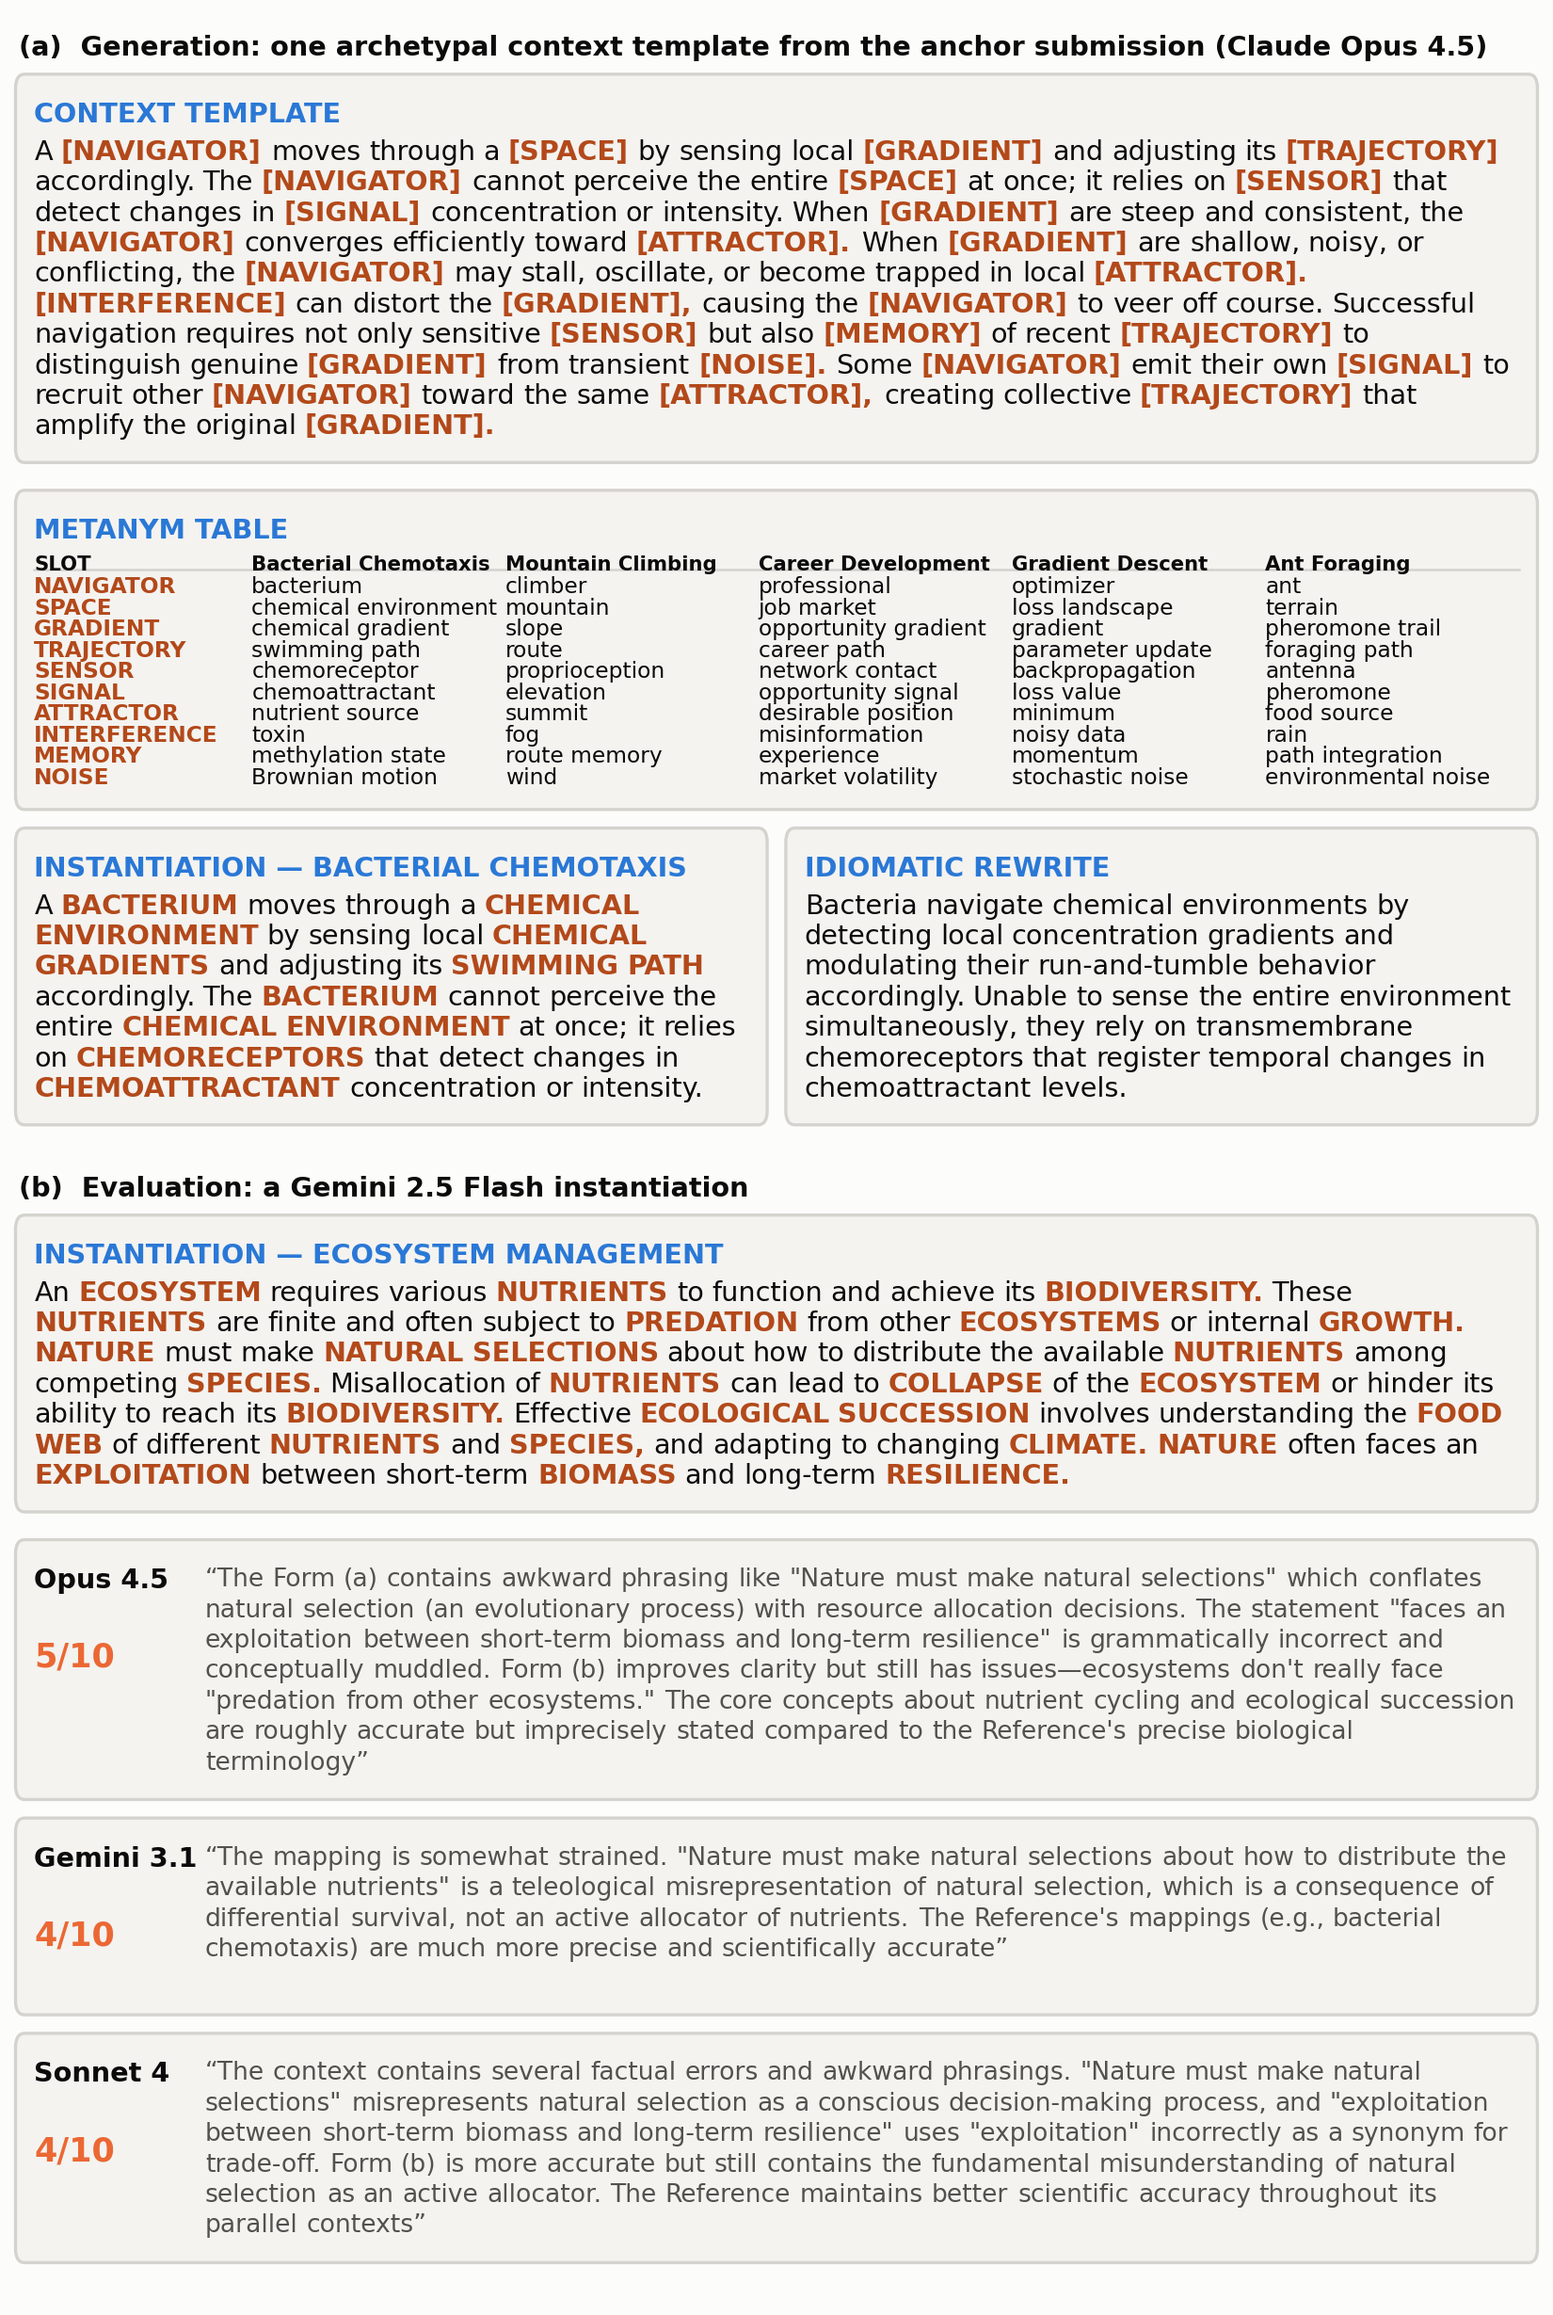
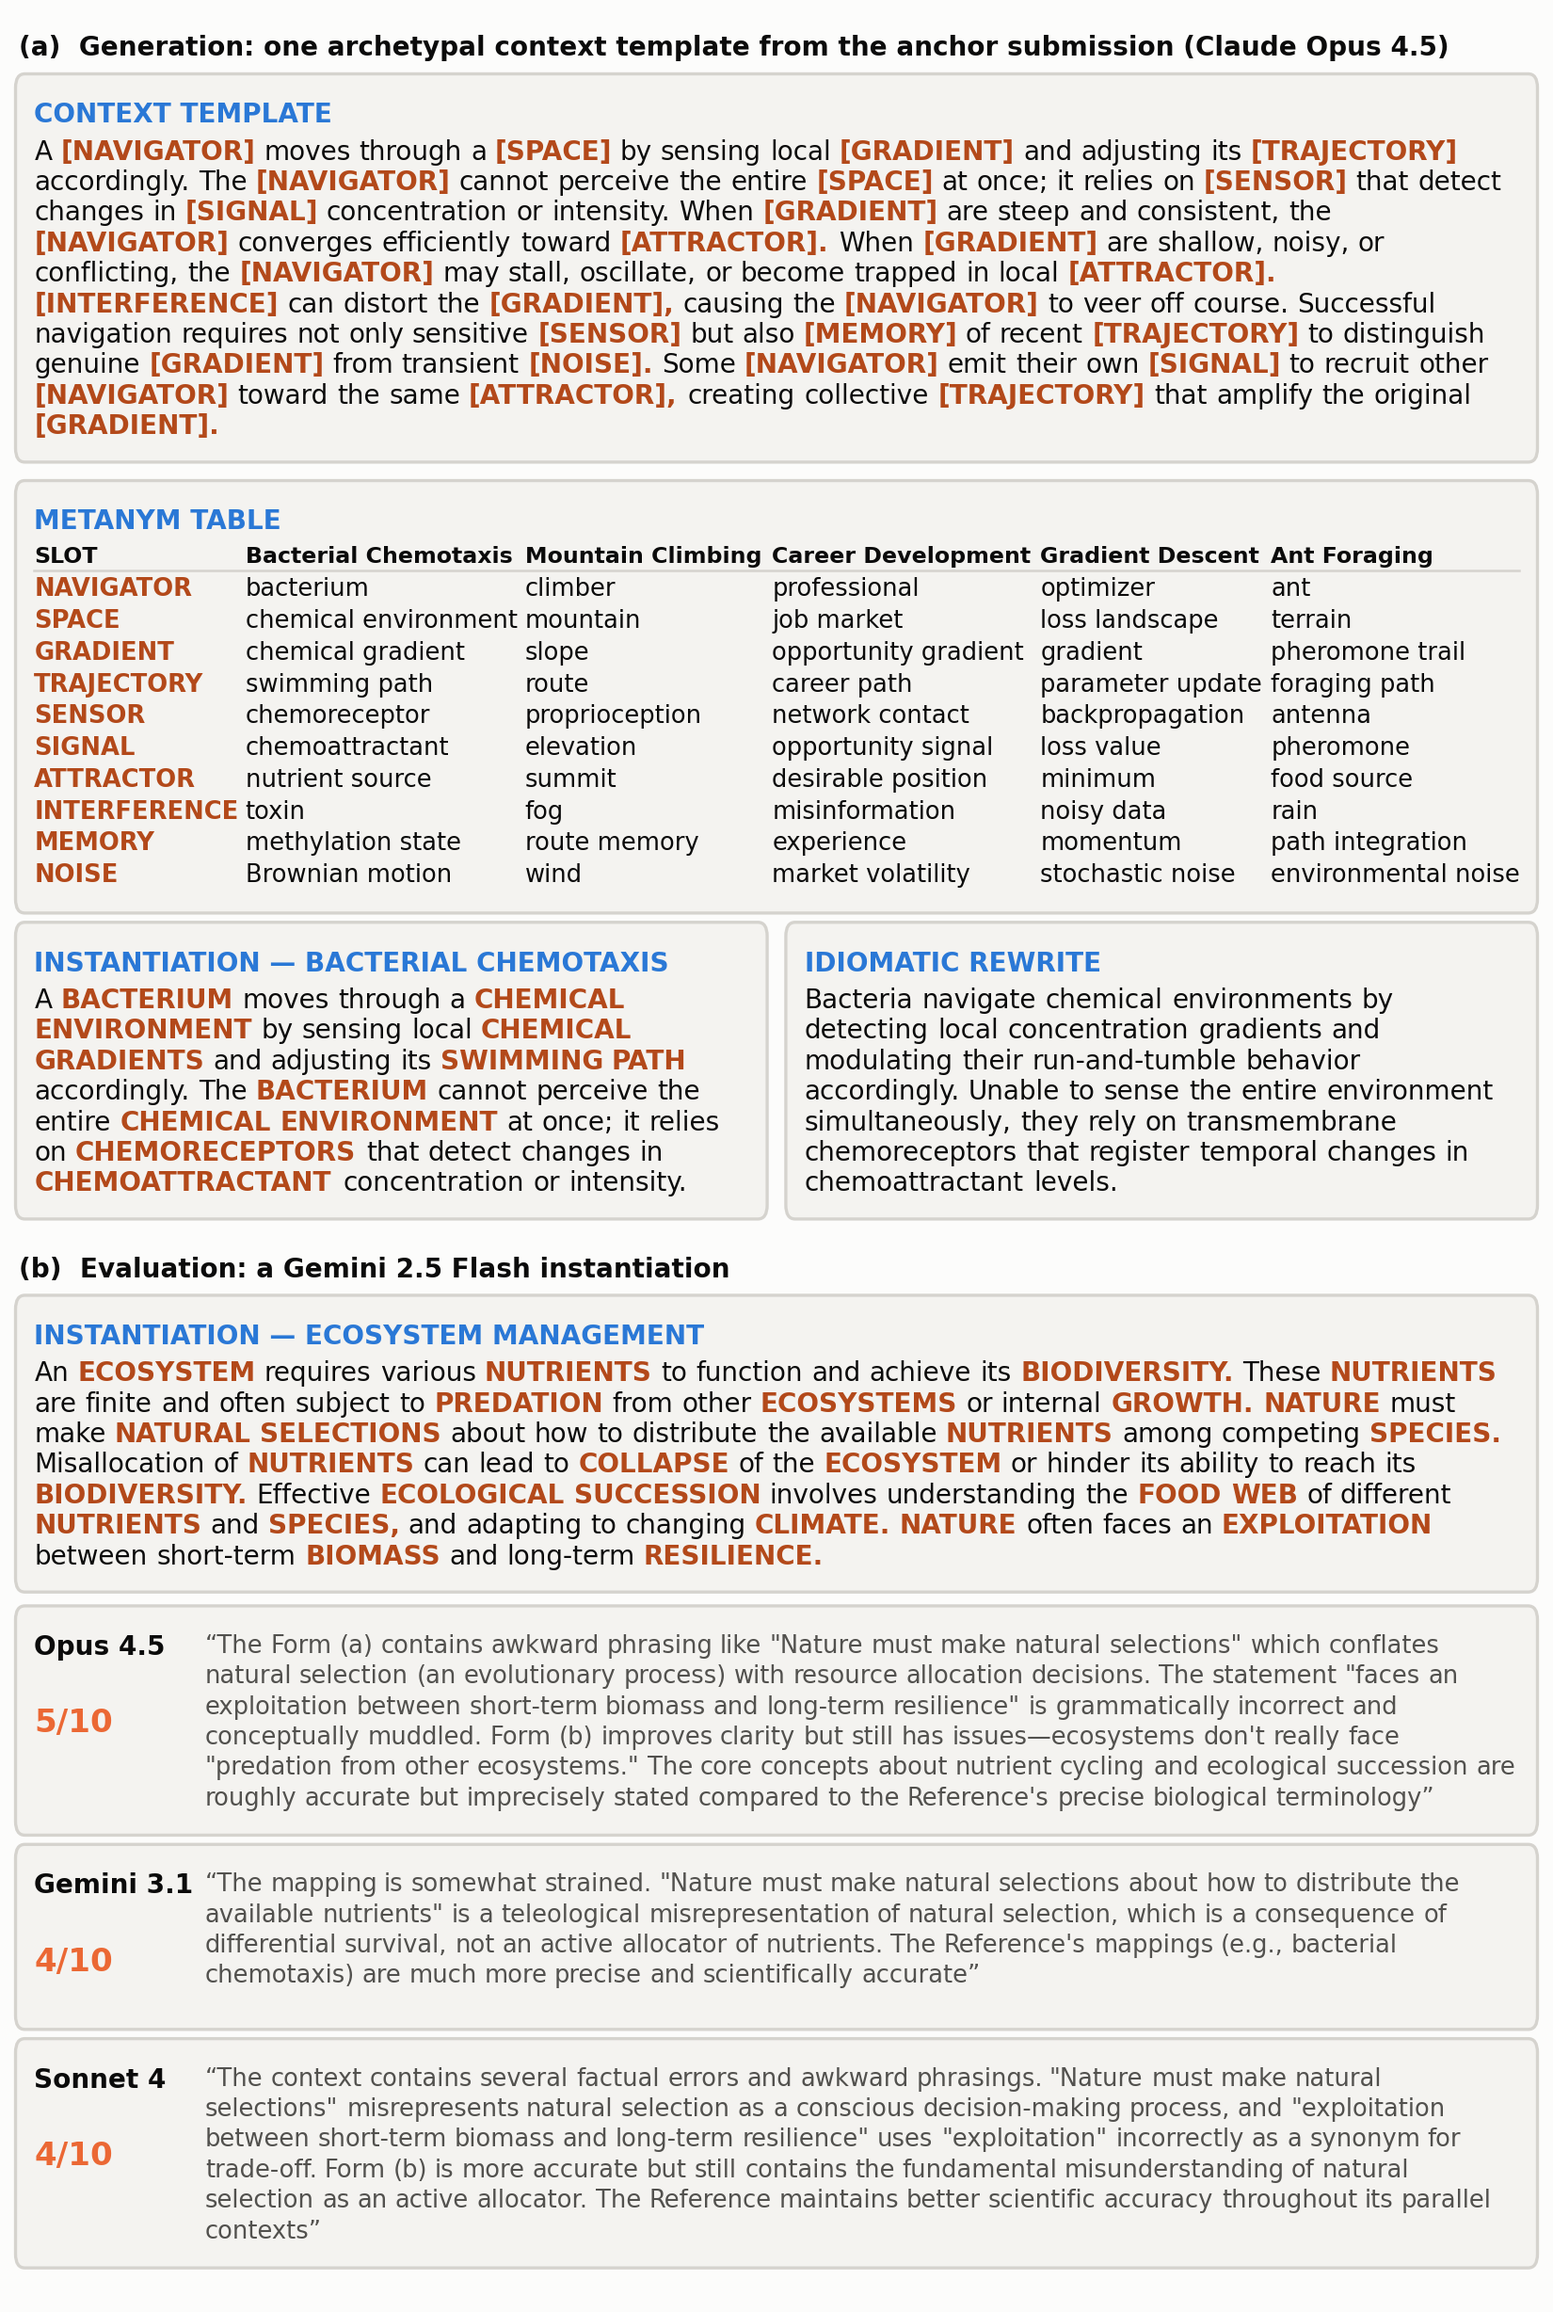
Re-sync from archetypal-contexts@c02e515

Changed region(s): [[0.0, 0.0, 1.0, 0.9902], [0.7109, 0.0, 0.9582, 0.0309], [0.9891, 0.4951, 1.0, 0.557]]

diff --git a/reproduce/scripts/plot_game_example.py b/reproduce/scripts/plot_game_example.py
@@ -27,7 +27,7 @@ def quoted_clause(just):
     m = re.search(r"[\"“](nature must make natural selections[^\"”]*)[\"”]", just, re.I)
     if m: return m.group(1)
     m = re.search(r"([^.;,]*natural selection[^.;,]*)", just, re.I); assert m; return m.group(1).strip()
-W = 5.5; M, PAD = 1.2, 1.0; BODY = float(sys.argv[sys.argv.index("--body") + 1]) if "--body" in sys.argv else 6.9   # 6.9 fills the ICLR page (5.5 x 9 in) with the caption
+W = 5.5; M, PAD = 1.2, 1.0; BODY = float(sys.argv[sys.argv.index("--body") + 1]) if "--body" in sys.argv else 6.7   # 6.7 fills the ICLR page (5.5 x 9 in) with the caption
 def is_slot(tok): core = tok.strip(".,;:()'\"“”"); return len(core) > 1 and core.isupper()
 def render(H):
     fig = plt.figure(figsize=(W, H)); fig.patch.set_facecolor(SURFACE); ax = fig.add_axes([0, 0, 1, 1]); ax.set_xlim(0, 100); ax.set_ylim(0, 100); ax.axis("off")
@@ -48,26 +48,33 @@ def render(H):
     FULL = 100 - 2 * M
     # ---- (a)
     y = header(98.5, "(a)  Generation: one archetypal context template from the anchor submission (Claude Opus 4.5)")
-    top = y; ys = subhead(M + PAD, top - PAD, "CONTEXT TEMPLATE"); yb = flow(M + PAD, ys, FULL - 2 * PAD, TEMPLATE); box(M, top, FULL, yb - PAD + 0.4); y = yb - PAD - 1.2
-    top = y; ys = subhead(M + PAD, top - PAD, "METANYM TABLE"); ncol = len(TABLE[0]); c0 = 14.0; cw = (FULL - 2 * PAD - c0) / (ncol - 1); x0 = M + PAD; probe = ax.text(0, -60, "Ag", fontsize=BODY - 1.3); lh = h_of(probe)[0] * 1.25; probe.remove(); yy = ys
+    top = y; ys = subhead(M + PAD, top - PAD, "CONTEXT TEMPLATE"); yb = flow(M + PAD, ys, FULL - 2 * PAD, TEMPLATE); box(M, top, FULL, yb - PAD + 0.4); y = yb - PAD - 0.8
+    top = y; ys = subhead(M + PAD, top - PAD, "METANYM TABLE"); ncol = len(TABLE[0]); x0 = M + PAD
+    fs = lambda r: (BODY - 1.0) if r == 0 else (BODY - 0.5)
+    def tw(s, size, bold):                                       # rendered width of a string, in axis units
+        pr = ax.text(0, -60, s, fontsize=size, fontweight="bold" if bold else "normal"); w_ = h_of(pr)[1]; pr.remove(); return w_
+    need = [max(tw(TABLE[r][c].replace("[", "").replace("]", ""), fs(r), r == 0 or c == 0) for r in range(len(TABLE))) for c in range(ncol)]
+    gap = (FULL - 2 * PAD - sum(need)) / (ncol - 1); assert gap > 0.3, f"metanym table too wide for the page: {sum(need):.1f} of {FULL - 2 * PAD:.1f} units"
+    xs = [x0 + sum(need[:c]) + c * gap for c in range(ncol)]
+    probe = ax.text(0, -60, "Ag", fontsize=BODY - 0.5); lh = h_of(probe)[0] * 1.25; probe.remove(); yy = ys
     for r, row in enumerate(TABLE):
         for c, cell in enumerate(row):
-            xx = x0 + (0 if c == 0 else c0 + (c - 1) * cw); ax.text(xx, yy, cell.replace("[", "").replace("]", ""), fontsize=(BODY - 1.8) if r == 0 else (BODY - 1.3), va="top", ha="left", color=MET_ORANGE if c == 0 and r > 0 else INK, fontweight="bold" if r == 0 or c == 0 else "normal", zorder=3)
+            ax.text(xs[c], yy, cell.replace("[", "").replace("]", ""), fontsize=fs(r), va="top", ha="left", color=MET_ORANGE if c == 0 and r > 0 else INK, fontweight="bold" if r == 0 or c == 0 else "normal", zorder=3)
         yy -= lh
         if r == 0: ax.plot([x0, M + FULL - PAD], [yy + 0.3, yy + 0.3], color=EDGE, lw=0.6, zorder=2)
-    box(M, top, FULL, yy - PAD + lh * 0.3); y = yy - PAD - 1.2 + lh * 0.3
+    box(M, top, FULL, yy - PAD + lh * 0.3); y = yy - PAD - 0.8 + lh * 0.3
     HW = (FULL - 1.6) / 2; top = y; ys = subhead(M + PAD, top - PAD, "INSTANTIATION — BACTERIAL CHEMOTAXIS"); ya = flow(M + PAD, ys, HW - 2 * PAD, first_n(FA, 2)); RX = M + HW + 1.6
-    ys2 = subhead(RX + PAD, top - PAD, "IDIOMATIC REWRITE"); yb2 = flow(RX + PAD, ys2, HW - 2 * PAD, first_n(FB, 2), mark=False); bot = min(ya, yb2) - PAD + 0.4; box(M, top, HW, bot); box(RX, top, HW, bot); y = bot - 2.4
+    ys2 = subhead(RX + PAD, top - PAD, "IDIOMATIC REWRITE"); yb2 = flow(RX + PAD, ys2, HW - 2 * PAD, first_n(FB, 2), mark=False); bot = min(ya, yb2) - PAD + 0.4; box(M, top, HW, bot); box(RX, top, HW, bot); y = bot - 1.8
     # ---- (b): full-width instantiation, then three judges with their complete justifications
     y = header(y, "(b)  Evaluation: a Gemini 2.5 Flash instantiation")
-    top = y; ys = subhead(M + PAD, top - PAD, "INSTANTIATION — ECOSYSTEM MANAGEMENT"); ya = flow(M + PAD, ys, FULL - 2 * PAD, FORM_A); bot = ya - PAD + 0.4; box(M, top, FULL, bot); y = bot - 1.6
+    top = y; ys = subhead(M + PAD, top - PAD, "INSTANTIATION — ECOSYSTEM MANAGEMENT"); ya = flow(M + PAD, ys, FULL - 2 * PAD, FORM_A); bot = ya - PAD + 0.4; box(M, top, FULL, bot); y = bot - 1.0
     NAMEW = 12.0
     PICK = ["opus-4.5", "3.1-pro", "sonnet-4"]                     # three judges, both vendors of the council
     for name, rating, just in [j for k in PICK for j in JUDGES if j[0] == k]:
         top = y; ax.text(M + PAD, top - PAD, DISPLAY.get(name, name), fontsize=BODY, fontweight="bold", color=INK, va="top", zorder=3)
         ax.text(M + PAD, top - PAD - 3.2, f"{rating}/10", fontsize=BODY + 1.5, fontweight="bold", color=ORANGE, va="top", zorder=3)
         yj = flow(M + NAMEW, top - PAD, FULL - NAMEW - PAD, "“" + re.sub(r"\s+", " ", just.strip().strip('"“”')) + "”", size=BODY - 0.5, color=INK2, mark=False)
-        bot = min(yj, top - PAD - 6.5) - PAD + 0.4; box(M, top, FULL, bot); y = bot - 1.2
+        bot = min(yj, top - PAD - 6.0) - PAD + 0.4; box(M, top, FULL, bot); y = bot - 0.8
     bot_left = y; yj = y
     return fig, min(bot_left, yj)
 H = 8.0
